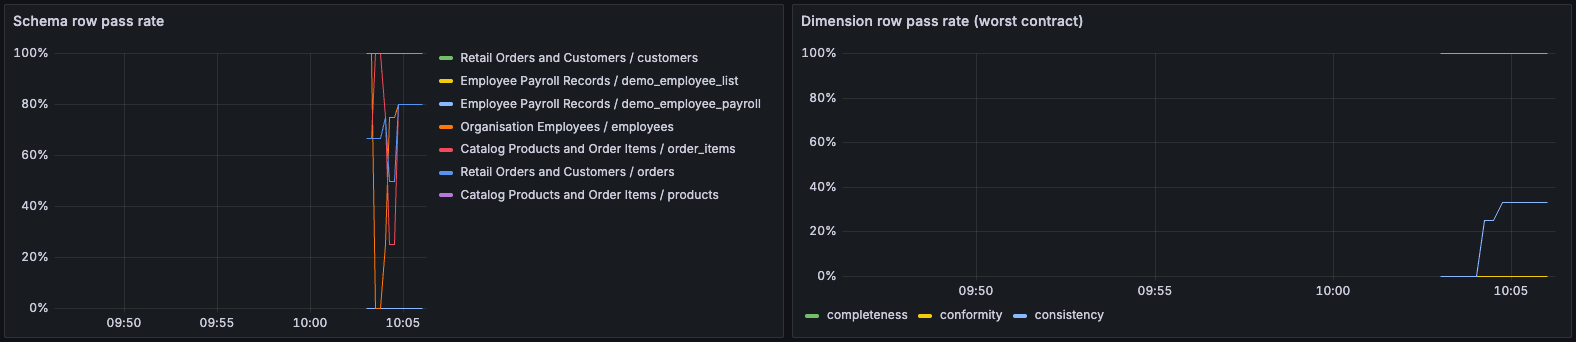
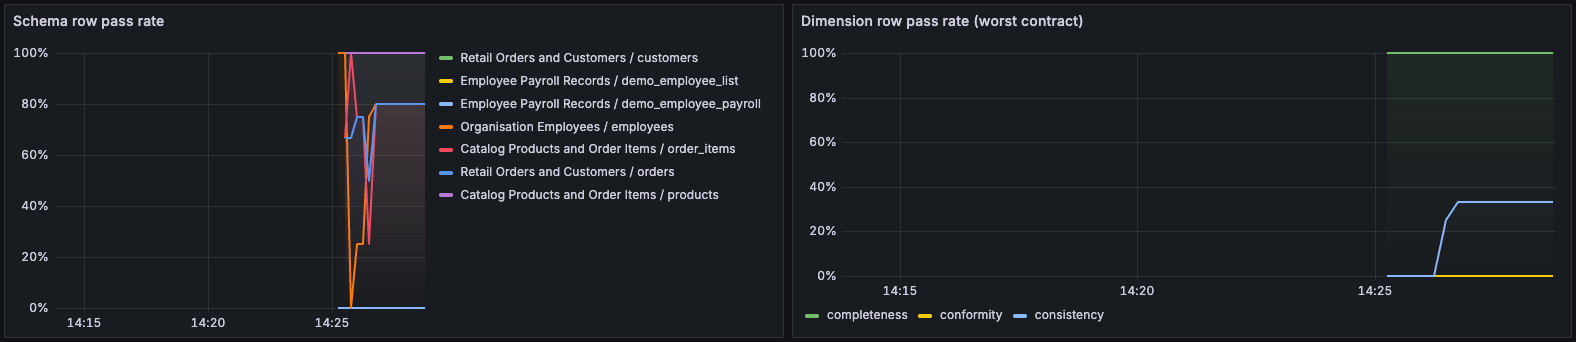
docs(examples): refresh the OTel stack dashboard and screenshots

diff --git a/examples/6_otel_stack/grafana/build_dashboard.py b/examples/6_otel_stack/grafana/build_dashboard.py
@@ -8,8 +8,14 @@ LOKI = {"type": "loki", "uid": "loki"}
 TEMPO = {"type": "tempo", "uid": "tempo"}
 # Every Prometheus query is filtered by the three dashboard variables.
 F = 'service_name=~"$service", vowl_domain=~"$domain", vowl_contract_name=~"$contract"'
+# Muted colours, so a dashboard full of failing checks does not glare.
+BAD, WARN, GOOD, NEUTRAL = "#d16d6d", "#d9a54a", "#6baf7b", "#8ea8c3"
 PCT_THRESHOLDS = {"mode": "absolute", "steps": [
-    {"color": "red", "value": None}, {"color": "orange", "value": 0.9}, {"color": "green", "value": 0.99}]}
+    {"color": BAD, "value": None}, {"color": WARN, "value": 0.9}, {"color": GOOD, "value": 0.99}]}
+RED_IF_ANY = {"mode": "absolute", "steps": [{"color": GOOD, "value": None}, {"color": BAD, "value": 1}]}
+# Pass rates as a thin bar with the number beside it, counts as coloured text.
+BAR_CELL = {"type": "gauge", "mode": "basic", "valueDisplayMode": "text"}
+TEXT_CELL = {"type": "color-text"}
 
 _next_id = iter(range(1, 1000))
 
@@ -24,12 +30,10 @@ def stat(title, expr, x, unit="percentunit", w=6, thresholds=None):
         "id": next(_next_id), "type": "stat", "title": title, "datasource": PROM,
         "gridPos": {"x": x, "y": 0, "w": w, "h": 4},
         "targets": [prom(expr)],
-        "options": {"reduceOptions": {"calcs": ["lastNotNull"]}, "colorMode": "background"},
+        "options": {"reduceOptions": {"calcs": ["lastNotNull"]}, "colorMode": "value", "graphMode": "none"},
         "fieldConfig": {"defaults": {
             "unit": unit, "decimals": 2 if unit == "percentunit" else 0,
-            "thresholds": thresholds or {"mode": "absolute", "steps": [
-                {"color": "red", "value": None}, {"color": "orange", "value": 0.9},
-                {"color": "green", "value": 0.99}]},
+            "thresholds": thresholds or PCT_THRESHOLDS,
         }, "overrides": []},
     }
 
@@ -40,7 +44,8 @@ def timeseries(title, targets, gp, unit="percentunit", stack=False, legend="bott
         "gridPos": gp, "targets": targets,
         "options": {"legend": {"displayMode": "list", "placement": legend}},
         "fieldConfig": {"defaults": {"unit": unit, **({"max": 1} if unit == "percentunit" else {}), "custom": {
-            "drawStyle": "line", "showPoints": "auto", "pointSize": 5, "spanNulls": True,
+            "drawStyle": "line", "lineWidth": 2, "fillOpacity": 8, "gradientMode": "opacity",
+            "showPoints": "auto", "pointSize": 4, "spanNulls": True,
             "stacking": {"mode": "normal" if stack else "none"}}}, "overrides": []},
     }
 
@@ -51,11 +56,10 @@ def latest_table(title, expr, gp, unit="percentunit", thresholds=None, desc=Fals
         "id": next(_next_id), "type": "table", "title": title, "datasource": PROM,
         "gridPos": gp, "targets": [prom(expr, legend="{{vowl_contract_name}} / {{schema_name}} / {{check_name}} ({{dimension}})")],
         "transformations": [{"id": "reduce", "options": {"reducers": ["lastNotNull"], "mode": "seriesToRows"}}],
-        "fieldConfig": {"defaults": {"unit": unit, "custom": {"cellOptions": {"type": "color-background"}},
-                                     "decimals": 3 if unit == "percentunit" else 0,
-                                     "thresholds": thresholds or {"mode": "absolute", "steps": [
-                                         {"color": "red", "value": None}, {"color": "orange", "value": 0.9},
-                                         {"color": "green", "value": 0.99}]}},
+        "fieldConfig": {"defaults": {"unit": unit, "min": 0, **({"max": 1} if unit == "percentunit" else {}),
+                                     "custom": {"cellOptions": BAR_CELL if unit == "percentunit" else TEXT_CELL},
+                                     "decimals": 1 if unit == "percentunit" else 0,
+                                     "thresholds": thresholds or PCT_THRESHOLDS},
                         "overrides": [{"matcher": {"id": "byName", "options": "Field"},
                                        "properties": [{"id": "custom.cellOptions", "value": {"type": "auto"}},
                                                       {"id": "displayName", "value": "Check"}]}]},
@@ -78,7 +82,6 @@ def scorecard(gp):
         ("E", "Failed rows", f'max by (vowl_domain, vowl_contract_name) '
                              f'(last_over_time(vowl_run_row_count{{{F}, status="FAILED"}}[$__range]))', "short"),
     ]
-    red_if_any = {"mode": "absolute", "steps": [{"color": "green", "value": None}, {"color": "red", "value": 1}]}
     overrides = [{"matcher": {"id": "byName", "options": "vowl_contract_name"},
                   "properties": [{"id": "displayName", "value": "Contract"}]},
                  {"matcher": {"id": "byName", "options": "vowl_domain"},
@@ -86,11 +89,12 @@ def scorecard(gp):
     for ref, name, _, unit in cols:
         props = [{"id": "displayName", "value": name}, {"id": "unit", "value": unit}]
         if unit == "percentunit":
-            props += [{"id": "decimals", "value": 2}, {"id": "thresholds", "value": PCT_THRESHOLDS},
-                      {"id": "custom.cellOptions", "value": {"type": "color-background"}}]
+            props += [{"id": "decimals", "value": 1}, {"id": "thresholds", "value": PCT_THRESHOLDS},
+                      {"id": "min", "value": 0}, {"id": "max", "value": 1},
+                      {"id": "custom.cellOptions", "value": BAR_CELL}]
         elif name != "Checks":
-            props += [{"id": "thresholds", "value": red_if_any},
-                      {"id": "custom.cellOptions", "value": {"type": "color-background"}}]
+            props += [{"id": "thresholds", "value": RED_IF_ANY},
+                      {"id": "custom.cellOptions", "value": TEXT_CELL}]
         overrides.append({"matcher": {"id": "byName", "options": f"Value #{ref}"}, "properties": props})
     return {
         "id": next(_next_id), "type": "table", "title": "Contract scorecard (latest run of each contract)",
@@ -106,12 +110,10 @@ def scorecard(gp):
     }
 
 
-RED_IF_ANY = {"mode": "absolute", "steps": [{"color": "green", "value": None}, {"color": "red", "value": 1}]}
-
 panels = [
     # Catalog: every contract that matches the filters, one number or row each.
     stat("Contracts", f"count(max by (vowl_contract_name) (last_over_time(vowl_run_check_pass_rate_ratio{{{F}}}[$__range])))",
-         0, unit="short", thresholds={"mode": "absolute", "steps": [{"color": "blue", "value": None}]}),
+         0, unit="short", thresholds={"mode": "absolute", "steps": [{"color": NEUTRAL, "value": None}]}),
     stat("Contracts with failing checks",
          f"count(max by (vowl_contract_name) (last_over_time(vowl_run_check_pass_rate_ratio{{{F}}}[$__range])) < 1)"
          " or vector(0)", 6, unit="short", thresholds=RED_IF_ANY),

diff --git a/examples/6_otel_stack/README.md b/examples/6_otel_stack/README.md
@@ -230,11 +230,13 @@ contracts are left:
 - **Failed rows (latest runs)** adds up the failed rows of every contract's
   latest run.
 - **Contract scorecard** has one row per contract, worst check pass rate
-  first. Start here to decide which contract to look at. Failed checks counts
-  both FAILED and ERROR.
+  first. Start here to decide which contract to look at. Pass rates show as a
+  bar, and failed checks counts both FAILED and ERROR.
 
-In this data every contract has some failing checks on purpose, so the tiles
-are red. The payroll contract shows a row pass rate of 0% because its tables
+The colours are muted on purpose. A pass rate is green at 99% or more, amber
+at 90% or more and red below that. A count turns red above 0. In this data
+every contract has some failing checks on purpose, so the failure tiles are
+red. The payroll contract shows a row pass rate of 0% because its tables
 have only 2 and 3 rows and every row fails at least one check. On tiny tables
 the row pass rate swings hard, so read it with the row counts.
 
@@ -270,7 +272,7 @@ Both tables show the latest run of each contract. Each row is
 
 - **Check row pass rate** lists checks from worst to best. A check below 100%
   failed at least one row.
-- **Failed rows per check** lists checks by failed row count. Red rows are the
+- **Failed rows per check** lists checks by failed row count. Red numbers are the
   checks to fix.
 
 ### Traces and logs
